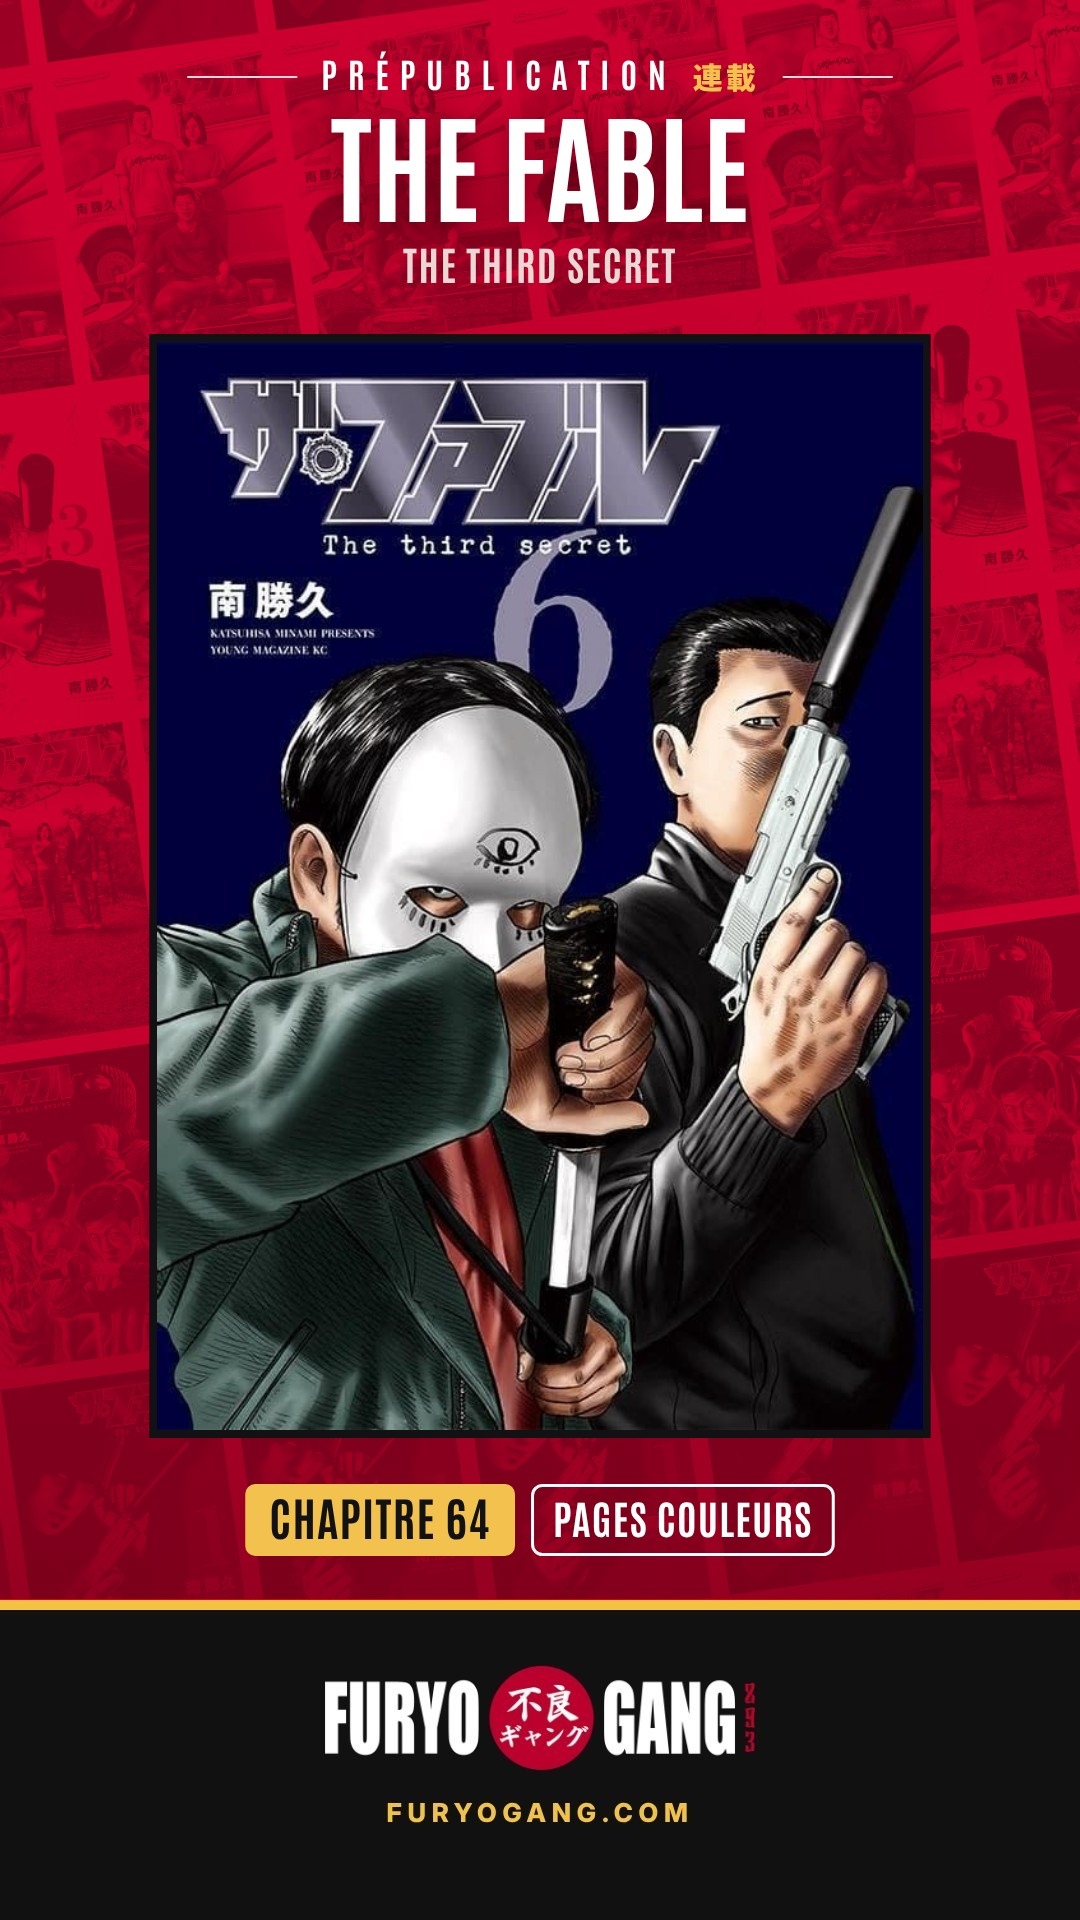
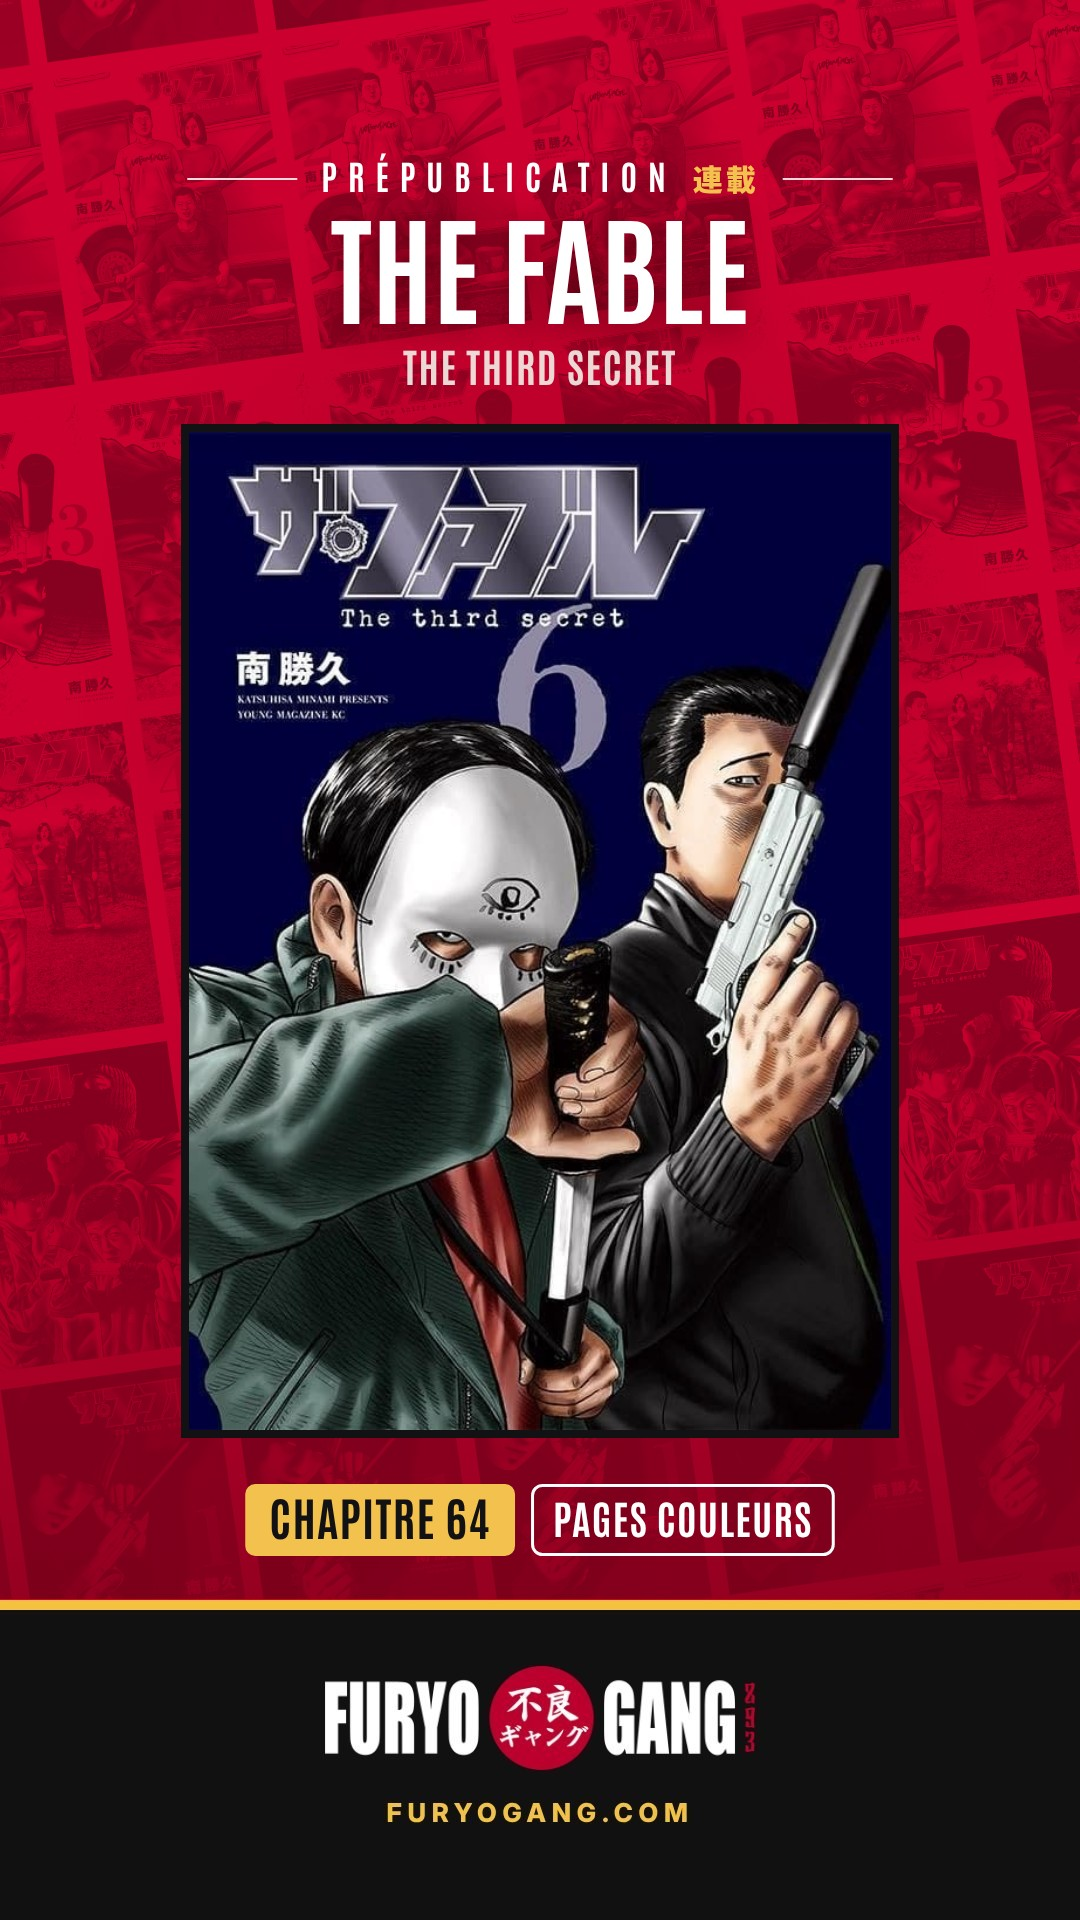
Stories : prépub à 150 px du haut et bloc rapproché de la couverture, grands visuels de news posés sur le trait jaune, charte à jour
Claude-Session: https://claude.ai/code/session_01ShgbxL6GpEPzbudUpDfTjj

Changed region(s): [[0.1222, 0.0312, 0.8861, 0.75]]

diff --git a/site/story.js b/site/story.js
@@ -12,14 +12,15 @@
    FG_STORY.canvasPrepub(t, d)     → Promise<canvas 1080 × 1920> ; d = { cover, titre, sousTitre, chapitre, couleur, slug } */
 (function () {
   var B = "/img/story/styles/", FN = B + "v2-noir.jpg?v=1", FR = B + "v2-rouge.jpg?v=1";
-  var LIGNE = 1600;                                     // trait jaune : tout le contenu tient au-dessus
+  var LIGNE = 1600, HAUT = 150;                        // HAUT : début du bloc prépub, sous l'interface Instagram (barres, avatar, croix)                                     // trait jaune : tout le contenu tient au-dessus
   function tirage(graine, prepub) { return { style: prepub ? "v2-rouge" : "v2-noir" }; }
-  // Place du visuel d'une news : 1080 de large, collé à 80 px du haut quand il est grand, centré sinon.
-  function place(pw, ph) { var h = Math.round(ph * 1080 / pw), top = h >= 1440 ? Math.max(0, Math.min(80, LIGNE - h)) : Math.round((LIGNE - h) / 2); return { top: top, h: Math.min(h, LIGNE - top) }; }
+  // Place du visuel d'une news : 1080 de large ; un grand visuel est posé sur le trait jaune (un post 1440 commence à 160 px,
+  // son logo passe sous l'avatar Instagram sinon — Will, 25/11/2026), un petit est centré.
+  function place(pw, ph) { var h = Math.round(ph * 1080 / pw), top = h >= 1440 ? Math.max(0, LIGNE - h) : Math.round((LIGNE - h) / 2); return { top: top, h: Math.min(h, LIGNE - top) }; }
   function html(t, src, secours) {
     var err = secours ? ' onerror="this.onerror=null;this.src=\'' + secours + '\'"' : "";
     return '<div style="position:relative;width:1080px;height:1920px;overflow:hidden;background:#0c0c0e"><img src="' + FN + '" style="position:absolute;inset:0;width:100%;height:100%">' +
-      (src ? '<div style="position:absolute;left:0;top:0;width:1080px;height:' + LIGNE + 'px;display:flex;align-items:center;justify-content:center;overflow:hidden"><img src="' + src + '"' + err + ' style="width:1080px;height:auto;max-height:' + LIGNE + 'px;object-fit:cover;object-position:top"></div>' : "") + '</div>';
+      (src ? '<div style="position:absolute;left:0;top:0;width:1080px;height:' + LIGNE + 'px;display:flex;align-items:flex-end;justify-content:center;overflow:hidden"><img src="' + src + '"' + err + ' style="width:1080px;height:auto;max-height:' + LIGNE + 'px;object-fit:cover;object-position:top"></div>' : "") + '</div>';
   }
   function charger(u) { return new Promise(function (ok, ko) { var i = new Image(); i.crossOrigin = "anonymous"; i.onload = function () { ok(i); }; i.onerror = function () { ko(new Error("image introuvable : " + u)); }; i.src = u; }); }
   function canvas(t, post) {
@@ -69,9 +70,11 @@
       x.save(); x.translate(540, 720); x.scale(648 / 720, 1); var g = x.createRadialGradient(0, 0, 0, 0, 0, 720); g.addColorStop(0, "rgba(150,0,30,.55)"); g.addColorStop(.75, "rgba(150,0,30,0)"); x.fillStyle = g; x.fillRect(-900, -900, 1800, 1800); x.restore();
       g = x.createLinearGradient(0, 0, 0, LIGNE); g.addColorStop(.6, "rgba(120,0,25,0)"); g.addColorStop(1, "rgba(120,0,25,.65)"); x.fillStyle = g; x.fillRect(0, 0, 1080, LIGNE);
       x.restore();
+      // Texte du haut dessiné sur un calque, posé après la couverture pour s'en rapprocher (Will, 25/11/2026).
+      var X0 = x, T = document.createElement("canvas"); T.width = 1080; T.height = 1920; x = T.getContext("2d");
       x.textAlign = "left"; x.textBaseline = "alphabetic";
-      // « PRÉPUBLICATION 連載 » entre deux filets.
-      var y = 60, lab = "PRÉPUBLICATION";
+      // « PRÉPUBLICATION 連載 » entre deux filets, à 150 px du haut : sous l'avatar et « Votre story » d'Instagram (Will, 25/11/2026).
+      var y = HAUT, lab = "PRÉPUBLICATION";
       x.font = "700 34px FGStA"; esp(x, "11px"); var wl = x.measureText(lab).width; esp(x, "0px");
       x.font = "900 30px FGStJ"; esp(x, "3px"); var wk = x.measureText("連載").width; esp(x, "0px");
       var tot = 110 + 24 + wl + 16 + wk + 24 + 110, X = (1080 - tot) / 2;
@@ -97,6 +100,7 @@
       if (d.sousTitre) { var st = "« " + String(d.sousTitre).replace(/^«\s*|\s*»$/g, "").toUpperCase() + " »", sf = 40; x.font = "italic 700 " + sf + "px FGStA"; esp(x, "1.6px");
         while (x.measureText(st).width > 980 && sf > 24) { sf -= 2; x.font = "italic 700 " + sf + "px FGStA"; }
         x.fillStyle = "#F2C14E"; x.fillText(st, 540, y + 12 + sf * .88); esp(x, "0px"); y += 12 + sf; }
+      x = X0; x.textAlign = "center"; var finTexte = y;
       // Bas : chapitre (+ « Pages couleurs »), posé à 44 px du trait jaune.
       var pills = [{ t: d.chapitre ? "CHAPITRE " + d.chapitre : "NOUVEAU CHAPITRE", f: "700 46px FGStA", plein: true }];
       if (d.couleur) pills.push({ t: "PAGES COULEURS", f: "700 40px FGStA", plein: false });
@@ -110,10 +114,14 @@
         x.fillText(p.t, px + p.w / 2, py + 37); px += p.w + 16; });
       esp(x, "0px"); x.textBaseline = "alphabetic";
       // Couverture : remplit l'espace entre le haut et le chapitre, bordure noire 8 px sans ombre.
+      var dy = 0;
       if (cv) { var y0 = y + 46, y1 = py - 46, r = cv.height / cv.width, h = Math.min(y1 - y0 - 16, 1080 * r), w = h / r;
         if (w > 840) { w = 840; h = w * r; }
         var top = y0 + (y1 - y0 - h - 16) / 2, left = (1080 - w - 16) / 2;
-        x.fillStyle = "#121214"; x.fillRect(left, top, w + 16, h + 16); x.drawImage(cv, left + 8, top + 8, w, h); }
+        x.fillStyle = "#121214"; x.fillRect(left, top, w + 16, h + 16); x.drawImage(cv, left + 8, top + 8, w, h);
+        // Le bloc du haut descend jusqu'à 34 px de la couverture (80 px au plus), pour ne pas laisser de vide (Will, 25/11/2026, maquettes 8).
+        dy = Math.max(0, Math.min(80, top - finTexte - 34)); }
+      x.drawImage(T, 0, dy);
       return c;
     });
   }

diff --git a/hq/charte/index.html b/hq/charte/index.html
@@ -169,15 +169,16 @@ ul.r{margin:0;padding-left:18px}ul.r li{margin:4px 0}
     <div class="t" data-k="story news post nouvel arc annonce nouvelle série sortie plein cadre noir v2">
       <h3>Story d'une news ou d'une sortie <span class="pill ok">Auto</span></h3>
       <div class="im"><a href="/img/charte/story-v2-nouvel-arc.jpg" target="_blank"><img src="/img/charte/story-v2-nouvel-arc.jpg" alt=""></a><a href="/img/charte/story-v2-annonce.jpg" target="_blank"><img src="/img/charte/story-v2-annonce.jpg" alt=""></a><a href="/img/charte/story-v2-nouvelle-serie.jpg" target="_blank"><img src="/img/charte/story-v2-nouvelle-serie.jpg" alt=""></a></div>
-      <dl><dt>Règle</dt><dd>1080 × 1920, fond noir (<code>v2-noir.jpg</code>). Le visuel du post en plein cadre, 1080 de large, à 80 px du haut, jusqu'au trait jaune. Aucun fondu au-dessus, aucune étiquette (« Nouveau post », furyogang.com…), aucun appel à l'action. Plus de persos ni de cadre crème. Le bas (logo + furyogang.com) ne bouge jamais.</dd>
+      <dl><dt>Règle</dt><dd>1080 × 1920, fond noir (<code>v2-noir.jpg</code>). Le visuel du post en plein cadre, 1080 de large, posé sur le trait jaune (un post 1440 commence à 160 px du haut, pour que son logo ne passe pas sous l'avatar Instagram). Aucun fondu au-dessus, aucune étiquette (« Nouveau post », furyogang.com…), aucun appel à l'action. Plus de persos ni de cadre crème. Le bas (logo + furyogang.com) ne bouge jamais.</dd>
+      <dt>Zones Instagram</dt><dd>Instagram couvre les 130 premiers px (barres, avatar, « Votre story », croix) et une bande vers 1840–1880 px (« Envoyer un message »). Rien d'important dans ces zones : furyogang.com reste juste au-dessus.</dd>
       <dt>Sans logo en haut</dt><dd>Le logo est déjà en grand en bas : les modèles Nouvel arc, Annonce et Nouvelle série sortent aussi <code>story.jpg</code> (même visuel sans le logo du haut), rangé à côté de <code>reseaux.jpg</code>. Le studio News la prend automatiquement si elle existe.</dd>
       <dt>Réglages story des modèles</dt><dd>Nouvel arc : <code>h=1520&amp;marge=115</code> (image plus grande, bloc titre plus bas sur fond noir, fondu doux). Annonce : <code>h=1520&amp;couv=600</code> (fond N&amp;B jusqu'au trait jaune, page agrandie). Nouvelle série : <code>couv=860&amp;haut=222&amp;ktop=30</code> (couverture agrandie, 新連載 remonté).</dd>
       <dt>Code</dt><dd><code>/site/story.js</code> (v2), fonds <code>/img/story/styles/v2-*.jpg</code>. Maquettes : <code>/modeles/story-v2/</code>.</dd></dl>
     </div>
     <div class="t" data-k="story prépublication chapitre 連載 arc pages couleurs mosaïque rouge v2">
       <h3>Story de prépublication <span class="pill ok">Auto</span></h3>
-      <div class="im"><a href="/img/charte/story-v2-prepub-saigo.jpg" target="_blank"><img src="/img/charte/story-v2-prepub-saigo.jpg" alt=""></a><a href="/img/charte/story-v2-prepub-fable.jpg" target="_blank"><img src="/img/charte/story-v2-prepub-fable.jpg" alt=""></a><a href="/img/charte/story-v2-prepub-nezumi.jpg" target="_blank"><img src="/img/charte/story-v2-prepub-nezumi.jpg" alt=""></a></div>
-      <dl><dt>Règle</dt><dd>Toujours en rouge (le rouge est réservé à la prépub). Fond : mosaïque noir et blanc des tomes de la série affichée. En haut : « PRÉPUBLICATION 連載 » entre deux filets (連載 en jaune), puis le titre en grand (titre français s'il existe ; réduit, puis sur deux lignes s'il est trop long). Au centre : couverture du dernier tome, bordure noire sans ombre. En bas, contre le trait jaune : seulement « CHAPITRE N » (pastille jaune), plus « PAGES COULEURS » s'il y en a.</dd>
+      <div class="im"><a href="/img/charte/story-v2-prepub-saigo.jpg?v=2" target="_blank"><img src="/img/charte/story-v2-prepub-saigo.jpg?v=2" alt=""></a><a href="/img/charte/story-v2-prepub-fable.jpg?v=2" target="_blank"><img src="/img/charte/story-v2-prepub-fable.jpg?v=2" alt=""></a><a href="/img/charte/story-v2-prepub-nezumi.jpg?v=2" target="_blank"><img src="/img/charte/story-v2-prepub-nezumi.jpg?v=2" alt=""></a></div>
+      <dl><dt>Règle</dt><dd>Toujours en rouge (le rouge est réservé à la prépub). Fond : mosaïque noir et blanc des tomes de la série affichée. En haut, à 150 px (sous l'interface Instagram) : « PRÉPUBLICATION 連載 » entre deux filets (連載 en jaune), puis le titre en grand (titre français s'il existe ; réduit, puis sur deux lignes s'il est trop long). Au centre : couverture du dernier tome, bordure noire sans ombre ; le bloc du haut descend pour finir à 34 px de la couverture (80 px de descente au plus), pour ne pas laisser de vide. En bas, contre le trait jaune : seulement « CHAPITRE N » (pastille jaune), plus « PAGES COULEURS » s'il y en a.</dd>
       <dt>Textes</dt><dd>Pas de magazine ni de numéro. Sous-titre de série (« The third secret », « ~ Sankyōdai no Kizuna ~ ») en crème sous le titre. Annonce d'arc (« En route vers l'arc final ») en jaune italique, pour ne pas la confondre avec le titre. « Pages couleurs » : les deux mots au pluriel.</dd>
       <dt>Réglages</dt><dd>Notion, base Prépublication : « Visuel story » (image officielle à la place du tome), « Sous-titre story » (annonce d'arc), « Mise en avant » contenant « couleur » (pastille Pages couleurs).</dd></dl>
       <a class="btn gh" href="/hq/#calendrier">Calendrier · Prépublication</a>

diff --git a/hq/index.html b/hq/index.html
@@ -727,7 +727,7 @@ h1{font:700 64px/.92 "FGAntonio";text-transform:uppercase;margin:0 0 6px}
 <script src="/site/admin-session.js?v=1"></script>
 <script src="/site/badges.js?v=2"></script>
 <script src="/site/sortie-post.js?v=16"></script>
-<script src="/site/story.js?v=5"></script>
+<script src="/site/story.js?v=6"></script>
 <script src="/site/quickaccess.js?v=22"></script>
 <script>
 if (window.FGQuick) FGQuick.mount(document.getElementById("hq-av"));

diff --git a/hq/news/index.html b/hq/news/index.html
@@ -168,7 +168,7 @@ img{display:block}a{color:inherit}button{font-family:inherit;cursor:pointer}
 <script src="/site/sortie-post.js?v=16"></script>
 <script src="/site/og-actu.js?v=8"></script>
 <script src="/site/hero-d.js?v=3"></script>
-<script src="/site/story.js?v=5"></script>
+<script src="/site/story.js?v=6"></script>
 <script>
 (function () {
   var $ = function (s, r) { return (r || document).querySelector(s); };
